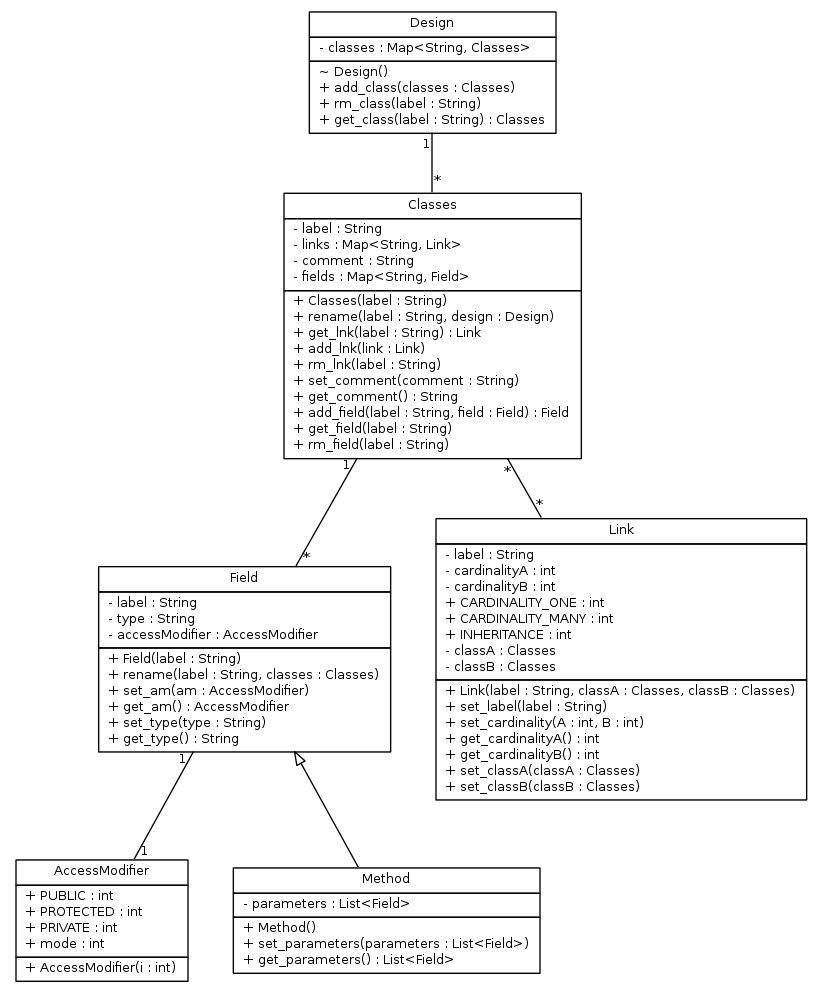
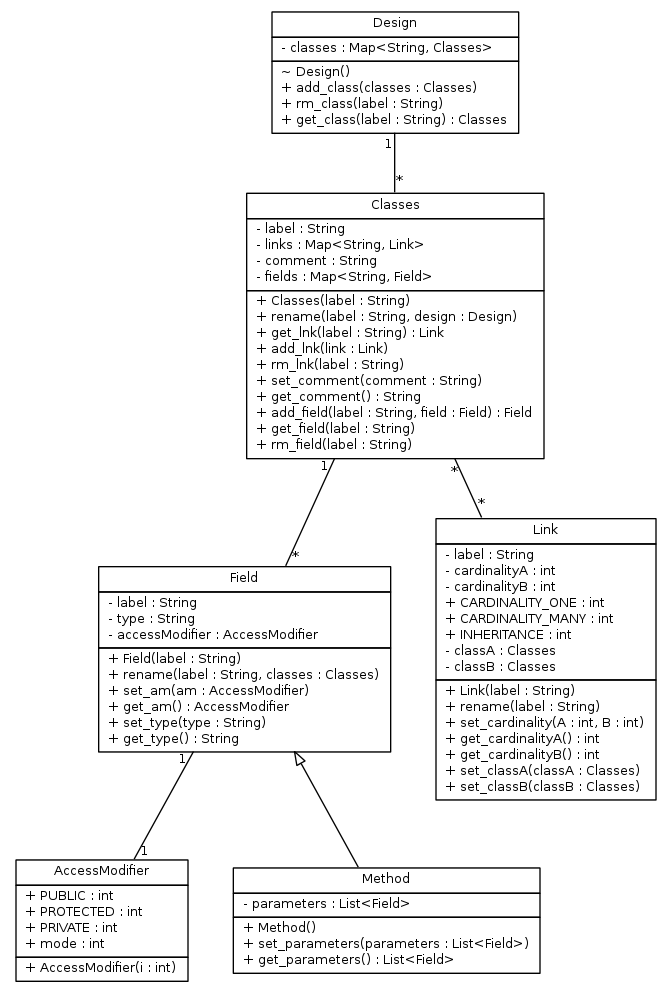
Added unittests to Link.

diff --git a/src/Link.java b/src/Link.java
@@ -3,6 +3,65 @@ public class Link {
 	 * Describes a relationship between two classes.
 	 */
 
+	private String label;
+	private int cardinalityA,cardinalityB;
+	
+	public static int CARDINALITY_ONE = 1;
+	public static int CARDINALITY_MANY = -1;
+	public static int INHERITANCE = 0;
+
+	private Classes classA,classB;
+
 	public Link(String label) {
+		/**
+		 * Create a new link.
+		 */
+		this.label = label;
 	}
+
+	public void rename(String label) {
+		/**
+		 * Change a link's name.
+		 */
+	}
+
+	public void set_cardinality(int a,int b) {
+		/**
+		 * Change a link's cardinality.
+		 */
+		cardinalityA = a;
+		cardinalityB = b;
+	}
+
+	public int get_cardinalityA() {
+		/**
+		 * Retrieve the cardinality from one end of the relationship.
+		 */
+		return 1;
+	}
+
+	public int get_cardinalityB() {
+		/**
+		 * Retrive the cardinality from the other end of the relationship.
+		 */
+		return 1;
+	}
+
+	public void set_classA(Classes classA) {
+		/**
+		 * Change the class at one end of the relationship.
+		 */
+		this.classA = classA;
+	}
+
+	public void set_classB(Classes classB) {
+		/**
+		 * Change the class at one end of the relationship.
+		 */
+		this.classB = classB;
+	}
+
+
+
+
 }

diff --git a/src/LinkTest.java b/src/LinkTest.java
@@ -1,0 +1,29 @@
+import junit.framework.*;
+import junit.framework.Assert.*;
+
+public class LinkTest extends TestCase {
+	private Link testLink;
+
+	public void setUp() {
+		testLink = new Link("test");
+		(new Classes("classA") ).add_lnk(testLink);
+		(new Classes("classB") ).add_lnk(testLink);
+	}
+
+	public void testRename() {
+		testLink.rename("test2");
+	}
+
+	public void testCardinality() {
+		testLink.set_cardinality(Link.CARDINALITY_ONE,Link.CARDINALITY_MANY);
+		testLink.get_cardinalityA();
+		testLink.get_cardinalityB();
+	}
+
+	public void testSetClasses() {
+		testLink.set_classA(new Classes("testC") );
+		testLink.set_classB(new Classes("testD") );
+	}
+
+}
+

diff --git a/src/ClassesTest.java b/src/ClassesTest.java
@@ -10,7 +10,11 @@ public class ClassesTest extends TestCase {
 
 	public void testAddLink() {
 		//Add a link to the class, retrieve it and remove it.
-		testClasses.add_lnk(new Link("TestLink-1") );
+		Classes classB = new Classes("classB");
+		Link link = new Link("link");
+		testClasses.add_lnk(link);
+		classB.add_lnk(link);
+
 		testClasses.get_lnk("TestLink-1");
 		testClasses.rm_lnk("TestLink-1");
 	}

diff --git a/documentation/DataClassDiagram.java b/documentation/DataClassDiagram.java
@@ -82,9 +82,9 @@ class Link {
 
 	private Classes classA, classB;
 
-	public Link(String label,Classes classA, Classes classB) {}
+	public Link(String label) {}
 
-	public void set_label(String label) {}
+	public void rename(String label) {}
 
 	public void set_cardinality(int A, int B) {}
 	public int get_cardinalityA() {}
